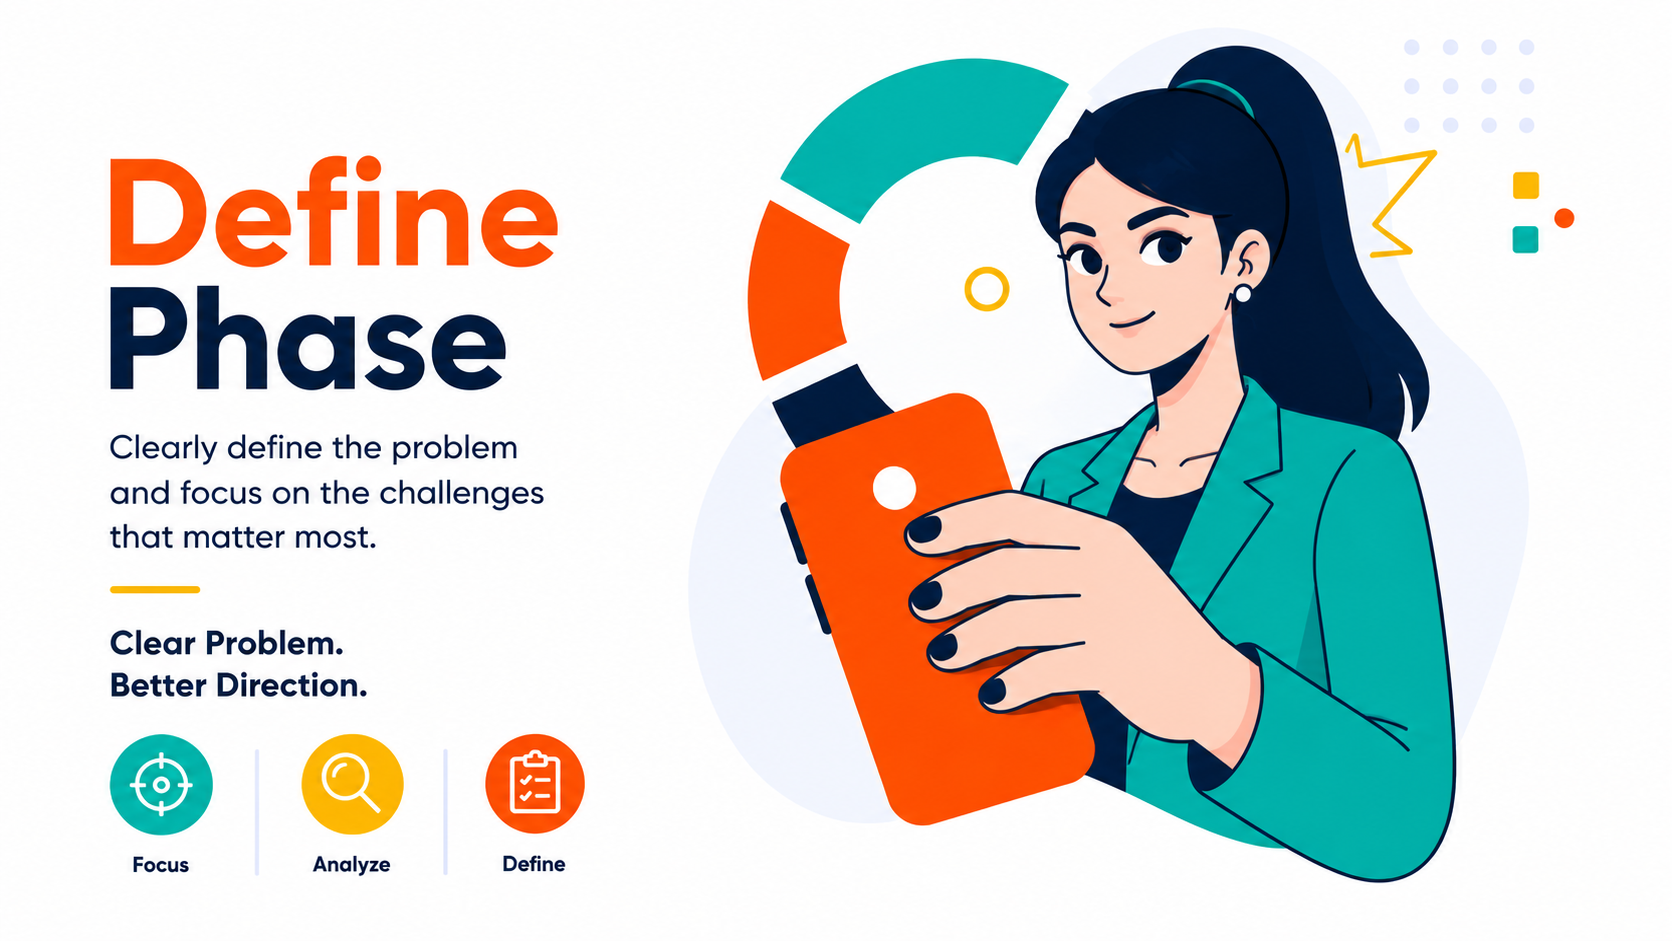
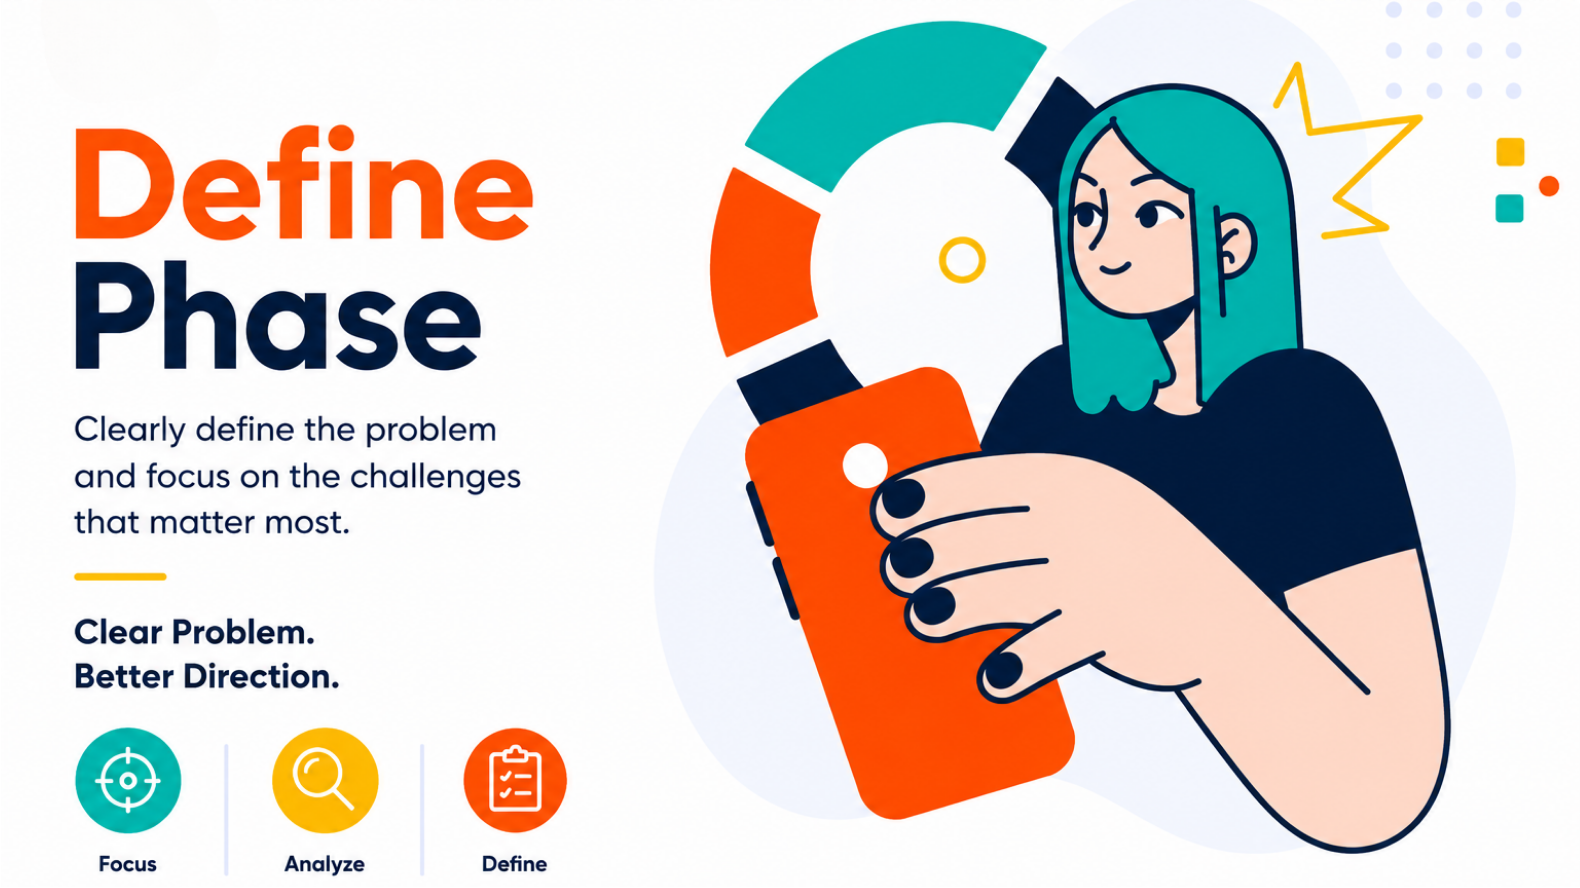
Add files via upload

diff --git a/css/smartdt.css b/css/smartdt.css
@@ -62,3 +62,36 @@ html{scroll-behavior:smooth} body{font-family:var(--font);background:#E8F0F7;col
 .template-steps.three{grid-template-columns:repeat(3,1fr)}
 #t05 .flowline{grid-template-columns:repeat(3,1fr)}
 @media(max-width:385px){.template-steps.three{grid-template-columns:repeat(3,1fr)}#t05 .flowline{grid-template-columns:1fr}}
+
+
+/* =========================================================
+   V2 FIX — Header image sizing + consistent bottom nav
+   Prevent hosted PNG icons from expanding at natural size.
+   ========================================================= */
+.header{min-height:var(--header-h);overflow:visible;}
+.brand{max-width:150px;}
+.brand-logo{width:40px!important;height:40px!important;min-width:40px!important;overflow:hidden;}
+.brand-logo img,.brand-logo svg{width:40px!important;height:40px!important;max-width:40px!important;max-height:40px!important;object-fit:contain!important;display:block!important;}
+.brand-text{font-size:13px!important;line-height:1.05!important;}
+.header-actions{gap:8px;flex-shrink:0;}
+.pill{height:36px!important;min-width:auto!important;padding:0 10px!important;gap:5px!important;flex-shrink:0;overflow:hidden;}
+.pill img,.pill-icon{width:16px!important;height:16px!important;max-width:16px!important;max-height:16px!important;object-fit:contain!important;display:block!important;flex-shrink:0!important;}
+.icon-btn{width:40px!important;height:40px!important;min-width:40px!important;overflow:hidden;}
+.icon-btn img,.icon-btn svg{width:21px!important;height:21px!important;max-width:21px!important;max-height:21px!important;object-fit:contain!important;display:block!important;}
+.tab img,.tab-icon{width:16px!important;height:16px!important;max-width:16px!important;max-height:16px!important;object-fit:contain!important;display:inline-block!important;vertical-align:-3px;margin-right:5px;}
+.btn img,.btn-icon{width:18px!important;height:18px!important;max-width:18px!important;max-height:18px!important;object-fit:contain!important;display:block!important;flex-shrink:0!important;}
+.acc-icon img{width:24px!important;height:24px!important;max-width:24px!important;max-height:24px!important;object-fit:contain!important;}
+.bottom-nav{height:72px!important;}
+.nav-item{gap:4px!important;font-size:10px!important;}
+.nav-item img,.nav-icon-img,.nav-item svg{width:24px!important;height:24px!important;max-width:24px!important;max-height:24px!important;object-fit:contain!important;display:block!important;flex-shrink:0!important;}
+.nav-item.active .nav-label{color:var(--teal);font-weight:900;}
+.hero-card img{width:100%!important;height:auto!important;max-height:196px!important;object-fit:contain!important;}
+.phase-page{padding-bottom:calc(var(--nav-h) + 34px)!important;}
+@media(max-width:385px){
+  .brand{max-width:135px;}
+  .brand-logo{width:36px!important;height:36px!important;min-width:36px!important;}
+  .brand-logo img,.brand-logo svg{width:36px!important;height:36px!important;max-width:36px!important;max-height:36px!important;}
+  .pill{padding:0 8px!important;font-size:11px!important;}
+  .pill img,.pill-icon{width:15px!important;height:15px!important;}
+  .icon-btn{width:38px!important;height:38px!important;min-width:38px!important;}
+}

diff --git a/phase02-define.html b/phase02-define.html
@@ -1,4 +1,5 @@
 <!DOCTYPE html>
+
 <html lang="en">
 <head>
 <meta charset="utf-8"/>
@@ -6,7 +7,7 @@
 <title>Phase 02 Define — Smart DT Project</title>
 <link href="https://fonts.googleapis.com" rel="preconnect"/>
 <link crossorigin="" href="https://fonts.gstatic.com" rel="preconnect"/>
-<link href="https://fonts.googleapis.com/css2?family=Poppins:wght@400;500;600;700;800;900&display=swap" rel="stylesheet"/>
+<link href="https://fonts.googleapis.com/css2?family=Poppins:wght@400;500;600;700;800;900&amp;display=swap" rel="stylesheet"/>
 <link href="css/smartdt.css" rel="stylesheet"/>
 </head>
 <body data-page="learn" data-phase="02">
@@ -72,7 +73,13 @@
 </form>
 </section>
 </main>
-<nav aria-label="Main navigation" class="bottom-nav"><a class="nav-item" data-nav="dashboard" href="dashboard.html"><img alt="" class="nav-icon-img" decoding="async" loading="lazy" src="https://iili.io/CJgF5nR.png"/><span class="nav-label">Dashboard</span></a><a class="nav-item" data-nav="learn" href="phase01-empathy.html"><img alt="" class="nav-icon-img" decoding="async" loading="lazy" src="https://iili.io/CJgFAZv.png"/><span class="nav-label">Learn</span></a><a class="nav-item" data-nav="projects" href="dashboard.html"><img alt="" class="nav-icon-img" decoding="async" loading="lazy" src="https://iili.io/CJgFY6N.png"/><span class="nav-label">Projects</span></a><a class="nav-item" data-nav="progress" href="dashboard.html"><img alt="" class="nav-icon-img" decoding="async" loading="lazy" src="https://iili.io/CJgF7Gp.png"/><span class="nav-label">Progress</span></a><a class="nav-item" data-nav="profile" href="dashboard.html"><img alt="" class="nav-icon-img" decoding="async" loading="lazy" src="https://iili.io/CJgFlat.png"/><span class="nav-label">Profile</span></a></nav>
+<nav aria-label="Main navigation" class="bottom-nav">
+<a class="nav-item" data-nav="dashboard" href="dashboard.html"><img alt="" class="nav-icon-img" decoding="async" loading="lazy" src="https://iili.io/CJgF5nR.png"/><span class="nav-label">Dashboard</span></a>
+<a class="nav-item active" data-nav="learn" href="phase01-empathy.html"><img alt="" class="nav-icon-img" decoding="async" loading="lazy" src="https://iili.io/CJgFAZv.png"/><span class="nav-label">Learn</span></a>
+<a class="nav-item" data-nav="projects" href="dashboard.html"><img alt="" class="nav-icon-img" decoding="async" loading="lazy" src="https://iili.io/CJgFY6N.png"/><span class="nav-label">Projects</span></a>
+<a class="nav-item" data-nav="progress" href="progress.html"><img alt="" class="nav-icon-img" decoding="async" loading="lazy" src="https://iili.io/CJgF7Gp.png"/><span class="nav-label">Progress</span></a>
+<a class="nav-item" data-nav="profile" href="profile.html"><img alt="" class="nav-icon-img" decoding="async" loading="lazy" src="https://iili.io/CJgFlat.png"/><span class="nav-label">Profile</span></a>
+</nav>
 </div>
 <script src="js/smartdt-assets.js"></script><script src="js/smartdt.js"></script>
 </body>

diff --git a/dashboard.html b/dashboard.html
@@ -25,5 +25,11 @@
 </section>
 </main>
 <button aria-label="Add evidence" class="fab"><svg viewbox="0 0 24 24"><line x1="12" x2="12" y1="5" y2="19"></line><line x1="5" x2="19" y1="12" y2="12"></line></svg></button>
-<nav aria-label="Main navigation" class="bottom-nav"><a class="nav-item" data-nav="dashboard" href="dashboard.html"><img alt="" class="nav-icon-img" decoding="async" loading="lazy" src="https://iili.io/CJgF5nR.png"/><span class="nav-label">Dashboard</span></a><a class="nav-item" data-nav="learn" href="phase01-empathy.html"><img alt="" class="nav-icon-img" decoding="async" loading="lazy" src="https://iili.io/CJgFAZv.png"/><span class="nav-label">Learn</span></a><a class="nav-item" data-nav="projects" href="dashboard.html"><img alt="" class="nav-icon-img" decoding="async" loading="lazy" src="https://iili.io/CJgFY6N.png"/><span class="nav-label">Projects</span></a><a class="nav-item" data-nav="progress" href="dashboard.html"><img alt="" class="nav-icon-img" decoding="async" loading="lazy" src="https://iili.io/CJgF7Gp.png"/><span class="nav-label">Progress</span></a><a class="nav-item" data-nav="profile" href="dashboard.html"><img alt="" class="nav-icon-img" decoding="async" loading="lazy" src="https://iili.io/CJgFlat.png"/><span class="nav-label">Profile</span></a></nav>
+<nav aria-label="Main navigation" class="bottom-nav">
+<a class="nav-item active" data-nav="dashboard" href="dashboard.html"><img alt="" class="nav-icon-img" decoding="async" loading="lazy" src="https://iili.io/CJgF5nR.png"/><span class="nav-label">Dashboard</span></a>
+<a class="nav-item" data-nav="learn" href="phase01-empathy.html"><img alt="" class="nav-icon-img" decoding="async" loading="lazy" src="https://iili.io/CJgFAZv.png"/><span class="nav-label">Learn</span></a>
+<a class="nav-item" data-nav="projects" href="dashboard.html"><img alt="" class="nav-icon-img" decoding="async" loading="lazy" src="https://iili.io/CJgFY6N.png"/><span class="nav-label">Projects</span></a>
+<a class="nav-item" data-nav="progress" href="progress.html"><img alt="" class="nav-icon-img" decoding="async" loading="lazy" src="https://iili.io/CJgF7Gp.png"/><span class="nav-label">Progress</span></a>
+<a class="nav-item" data-nav="profile" href="profile.html"><img alt="" class="nav-icon-img" decoding="async" loading="lazy" src="https://iili.io/CJgFlat.png"/><span class="nav-label">Profile</span></a>
+</nav>
 </div><script src="js/smartdt-assets.js"></script><script src="js/smartdt.js"></script></body></html>

diff --git a/phase01-empathy.html b/phase01-empathy.html
@@ -120,7 +120,13 @@
 </form>
 </section>
 </main>
-<nav aria-label="Main navigation" class="bottom-nav"><a class="nav-item" data-nav="dashboard" href="dashboard.html"><img alt="" class="nav-icon-img" decoding="async" loading="lazy" src="https://iili.io/CJgF5nR.png"/><span class="nav-label">Dashboard</span></a><a class="nav-item" data-nav="learn" href="phase01-empathy.html"><img alt="" class="nav-icon-img" decoding="async" loading="lazy" src="https://iili.io/CJgFAZv.png"/><span class="nav-label">Learn</span></a><a class="nav-item" data-nav="projects" href="dashboard.html"><img alt="" class="nav-icon-img" decoding="async" loading="lazy" src="https://iili.io/CJgFY6N.png"/><span class="nav-label">Projects</span></a><a class="nav-item" data-nav="progress" href="dashboard.html"><img alt="" class="nav-icon-img" decoding="async" loading="lazy" src="https://iili.io/CJgF7Gp.png"/><span class="nav-label">Progress</span></a><a class="nav-item" data-nav="profile" href="dashboard.html"><img alt="" class="nav-icon-img" decoding="async" loading="lazy" src="https://iili.io/CJgFlat.png"/><span class="nav-label">Profile</span></a></nav>
+<nav aria-label="Main navigation" class="bottom-nav">
+<a class="nav-item" data-nav="dashboard" href="dashboard.html"><img alt="" class="nav-icon-img" decoding="async" loading="lazy" src="https://iili.io/CJgF5nR.png"/><span class="nav-label">Dashboard</span></a>
+<a class="nav-item active" data-nav="learn" href="phase01-empathy.html"><img alt="" class="nav-icon-img" decoding="async" loading="lazy" src="https://iili.io/CJgFAZv.png"/><span class="nav-label">Learn</span></a>
+<a class="nav-item" data-nav="projects" href="dashboard.html"><img alt="" class="nav-icon-img" decoding="async" loading="lazy" src="https://iili.io/CJgFY6N.png"/><span class="nav-label">Projects</span></a>
+<a class="nav-item" data-nav="progress" href="progress.html"><img alt="" class="nav-icon-img" decoding="async" loading="lazy" src="https://iili.io/CJgF7Gp.png"/><span class="nav-label">Progress</span></a>
+<a class="nav-item" data-nav="profile" href="profile.html"><img alt="" class="nav-icon-img" decoding="async" loading="lazy" src="https://iili.io/CJgFlat.png"/><span class="nav-label">Profile</span></a>
+</nav>
 </div>
 <script src="js/smartdt-assets.js"></script><script src="js/smartdt.js"></script>
 </body>
